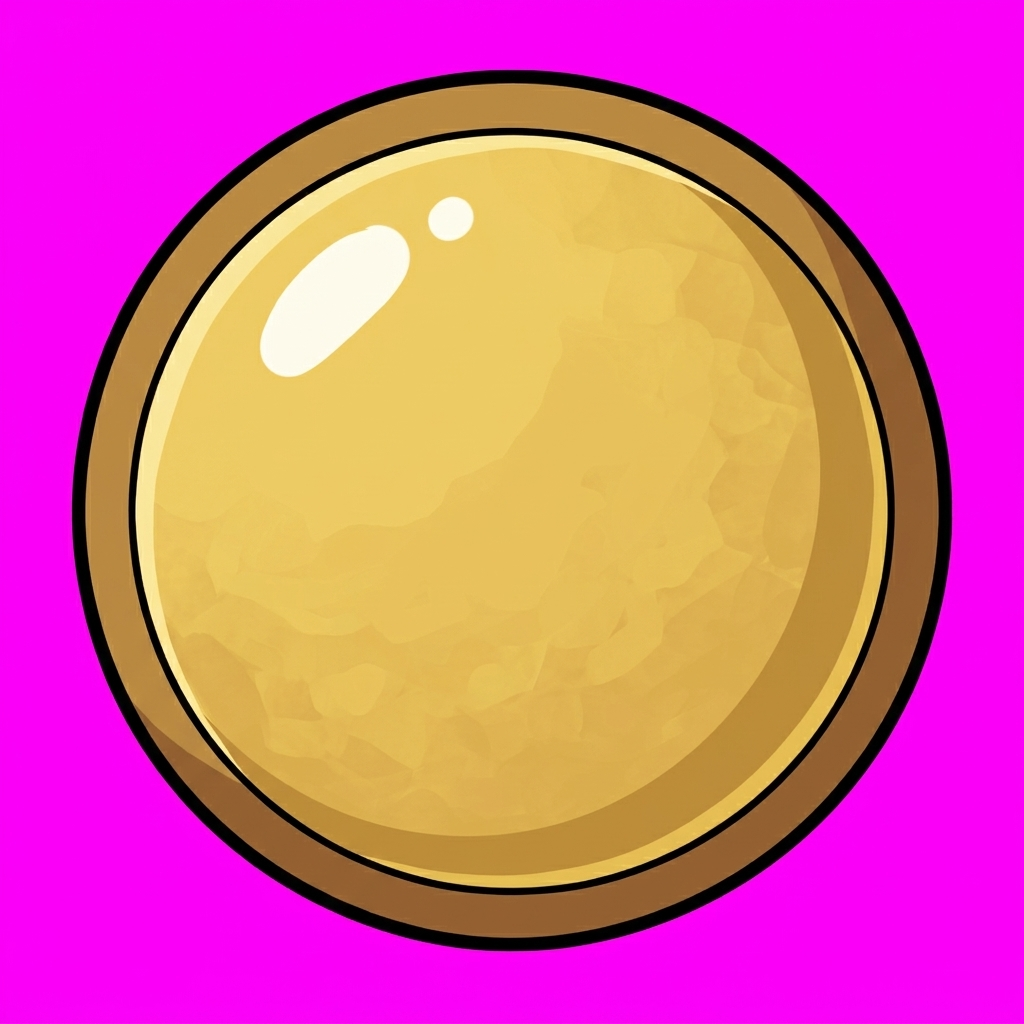
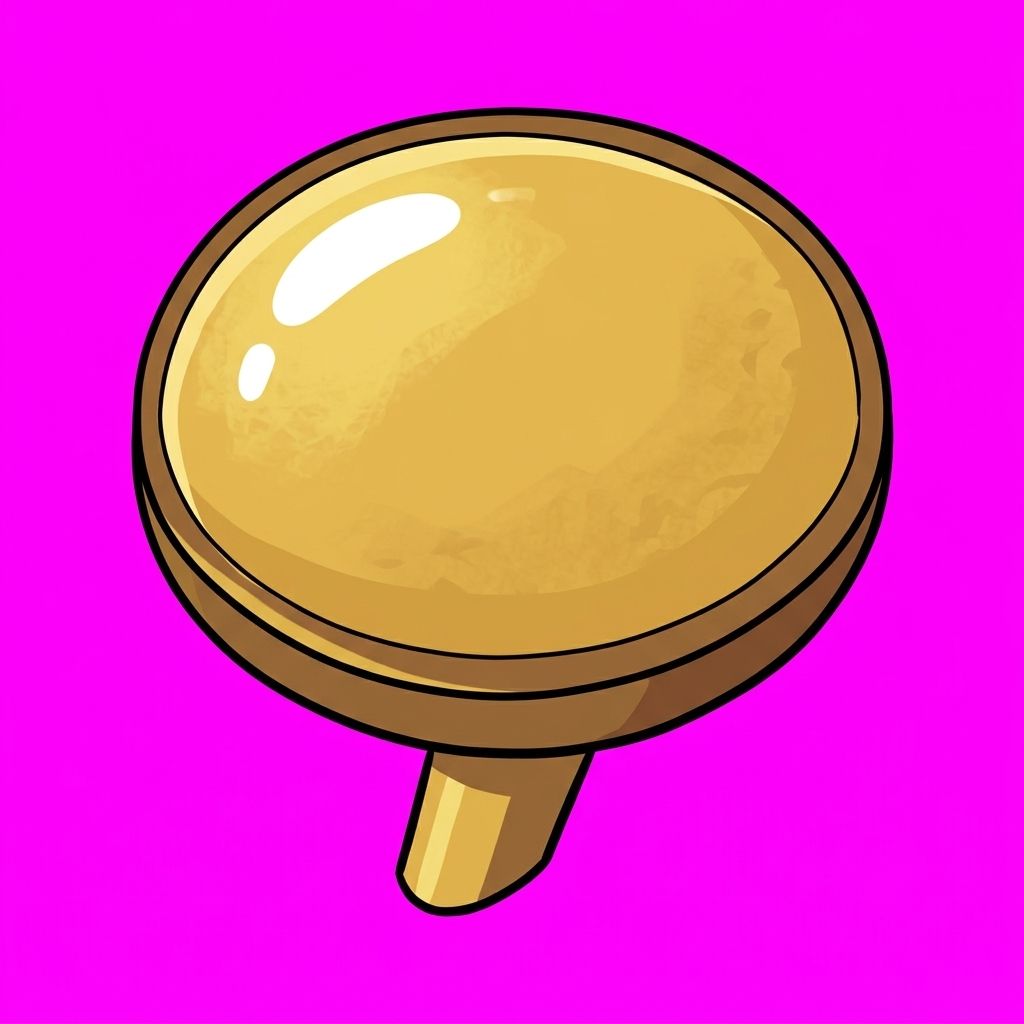
Bureau : clous dessinés de trois quarts (fin de l'écrasement CSS), pointe sur le lieu

diff --git a/app/template.html b/app/template.html
@@ -744,14 +744,14 @@ html, body { background: var(--desk-tex, none) center top / 640px, var(--night);
 .cord { position: absolute; z-index: 1; height: 10px; margin-top: -5px; transform-origin: 0 50%; pointer-events: none; background: var(--corde-rouge) 0 0 / auto 100% repeat-x; filter: drop-shadow(1px 3px 2px rgba(0, 0, 0, .45)); }
 @media (max-aspect-ratio: 1/1) { .cord { height: 6px; margin-top: -3px; } }
 /* clous illustrés (assets/desk/clou-*) : fer, un sur trois rouillé, laiton pour un lieu terminé, grosse tête pour épingler.
-   Vus de trois quarts comme le reste du bureau : tête tournée puis écrasée en hauteur, ombre portée sur la carte */
-.bureau.clous .dot.nail::before { background: var(--clou-fer) center / contain no-repeat; box-shadow: none; border-radius: 0; filter: drop-shadow(3px 4px 1.5px rgba(0, 0, 0, .55)); width: 19px; height: 19px; margin: -12px 0 0 -9.5px; transform: scaleY(.58) rotate(var(--nail)); }
-.bureau.clous .dot.nail.fresh::after { inset: 8px 4px 10px; transform: none; animation: nailglow34 1.6s ease-in-out infinite; }
+   Dessinés de trois quarts comme le reste du bureau ; la pointe (bas de l'image) tombe sur le lieu, ombre portée sur la carte */
+.bureau.clous .dot.nail::before { background: var(--clou-fer) center / contain no-repeat; box-shadow: none; border-radius: 0; filter: drop-shadow(3px 3px 1.5px rgba(0, 0, 0, .55)); width: 22px; height: 22px; margin: -19px 0 0 -11px; transform: none; }
+.bureau.clous .dot.nail.fresh::after { inset: 2px 3px 12px; transform: none; animation: nailglow34 1.6s ease-in-out infinite; }
 @keyframes nailglow34 { 50% { transform: scale(1.35); opacity: .35; } }
 .bureau.clous .dot.nail.rust::before { background-image: var(--clou-rouille); }
 .bureau.clous .dot.nail.done::before { background-image: var(--clou-laiton); }
-.bureau.clous .pin-tl, .bureau.clous .pin-tr, .bureau.clous .desk-photo::before { background: var(--clou-tete) center / contain no-repeat !important; box-shadow: none !important; border-radius: 0 !important; width: 22px !important; height: 22px !important; transform: scaleY(.6) !important; filter: drop-shadow(3px 4px 1.5px rgba(0, 0, 0, .55)); }
-@media (max-aspect-ratio: 1/1) { .bureau.clous .dot.nail::before { width: 13px; height: 13px; margin: -6.5px 0 0 -6.5px; } }
+.bureau.clous .pin-tl, .bureau.clous .pin-tr, .bureau.clous .desk-photo::before { background: var(--clou-tete) center / contain no-repeat !important; box-shadow: none !important; border-radius: 0 !important; width: 24px !important; height: 24px !important; transform: none !important; filter: drop-shadow(3px 3px 1.5px rgba(0, 0, 0, .55)); }
+@media (max-aspect-ratio: 1/1) { .bureau.clous .dot.nail::before { width: 16px; height: 16px; margin: -14px 0 0 -8px; } }
 /* les lieux : des clous forgés plantés dans la carte (zone de clic plus large que la tête) */
 .desk-map .dot.nail { width: 34px; height: 34px; background: none; box-shadow: none; border-radius: 50%; }
 .dot.nail::before { content: ""; position: absolute; left: 50%; top: 50%; width: 15px; height: 15px; margin: -7.5px 0 0 -7.5px; border-radius: 3px; transform: rotate(var(--nail));
